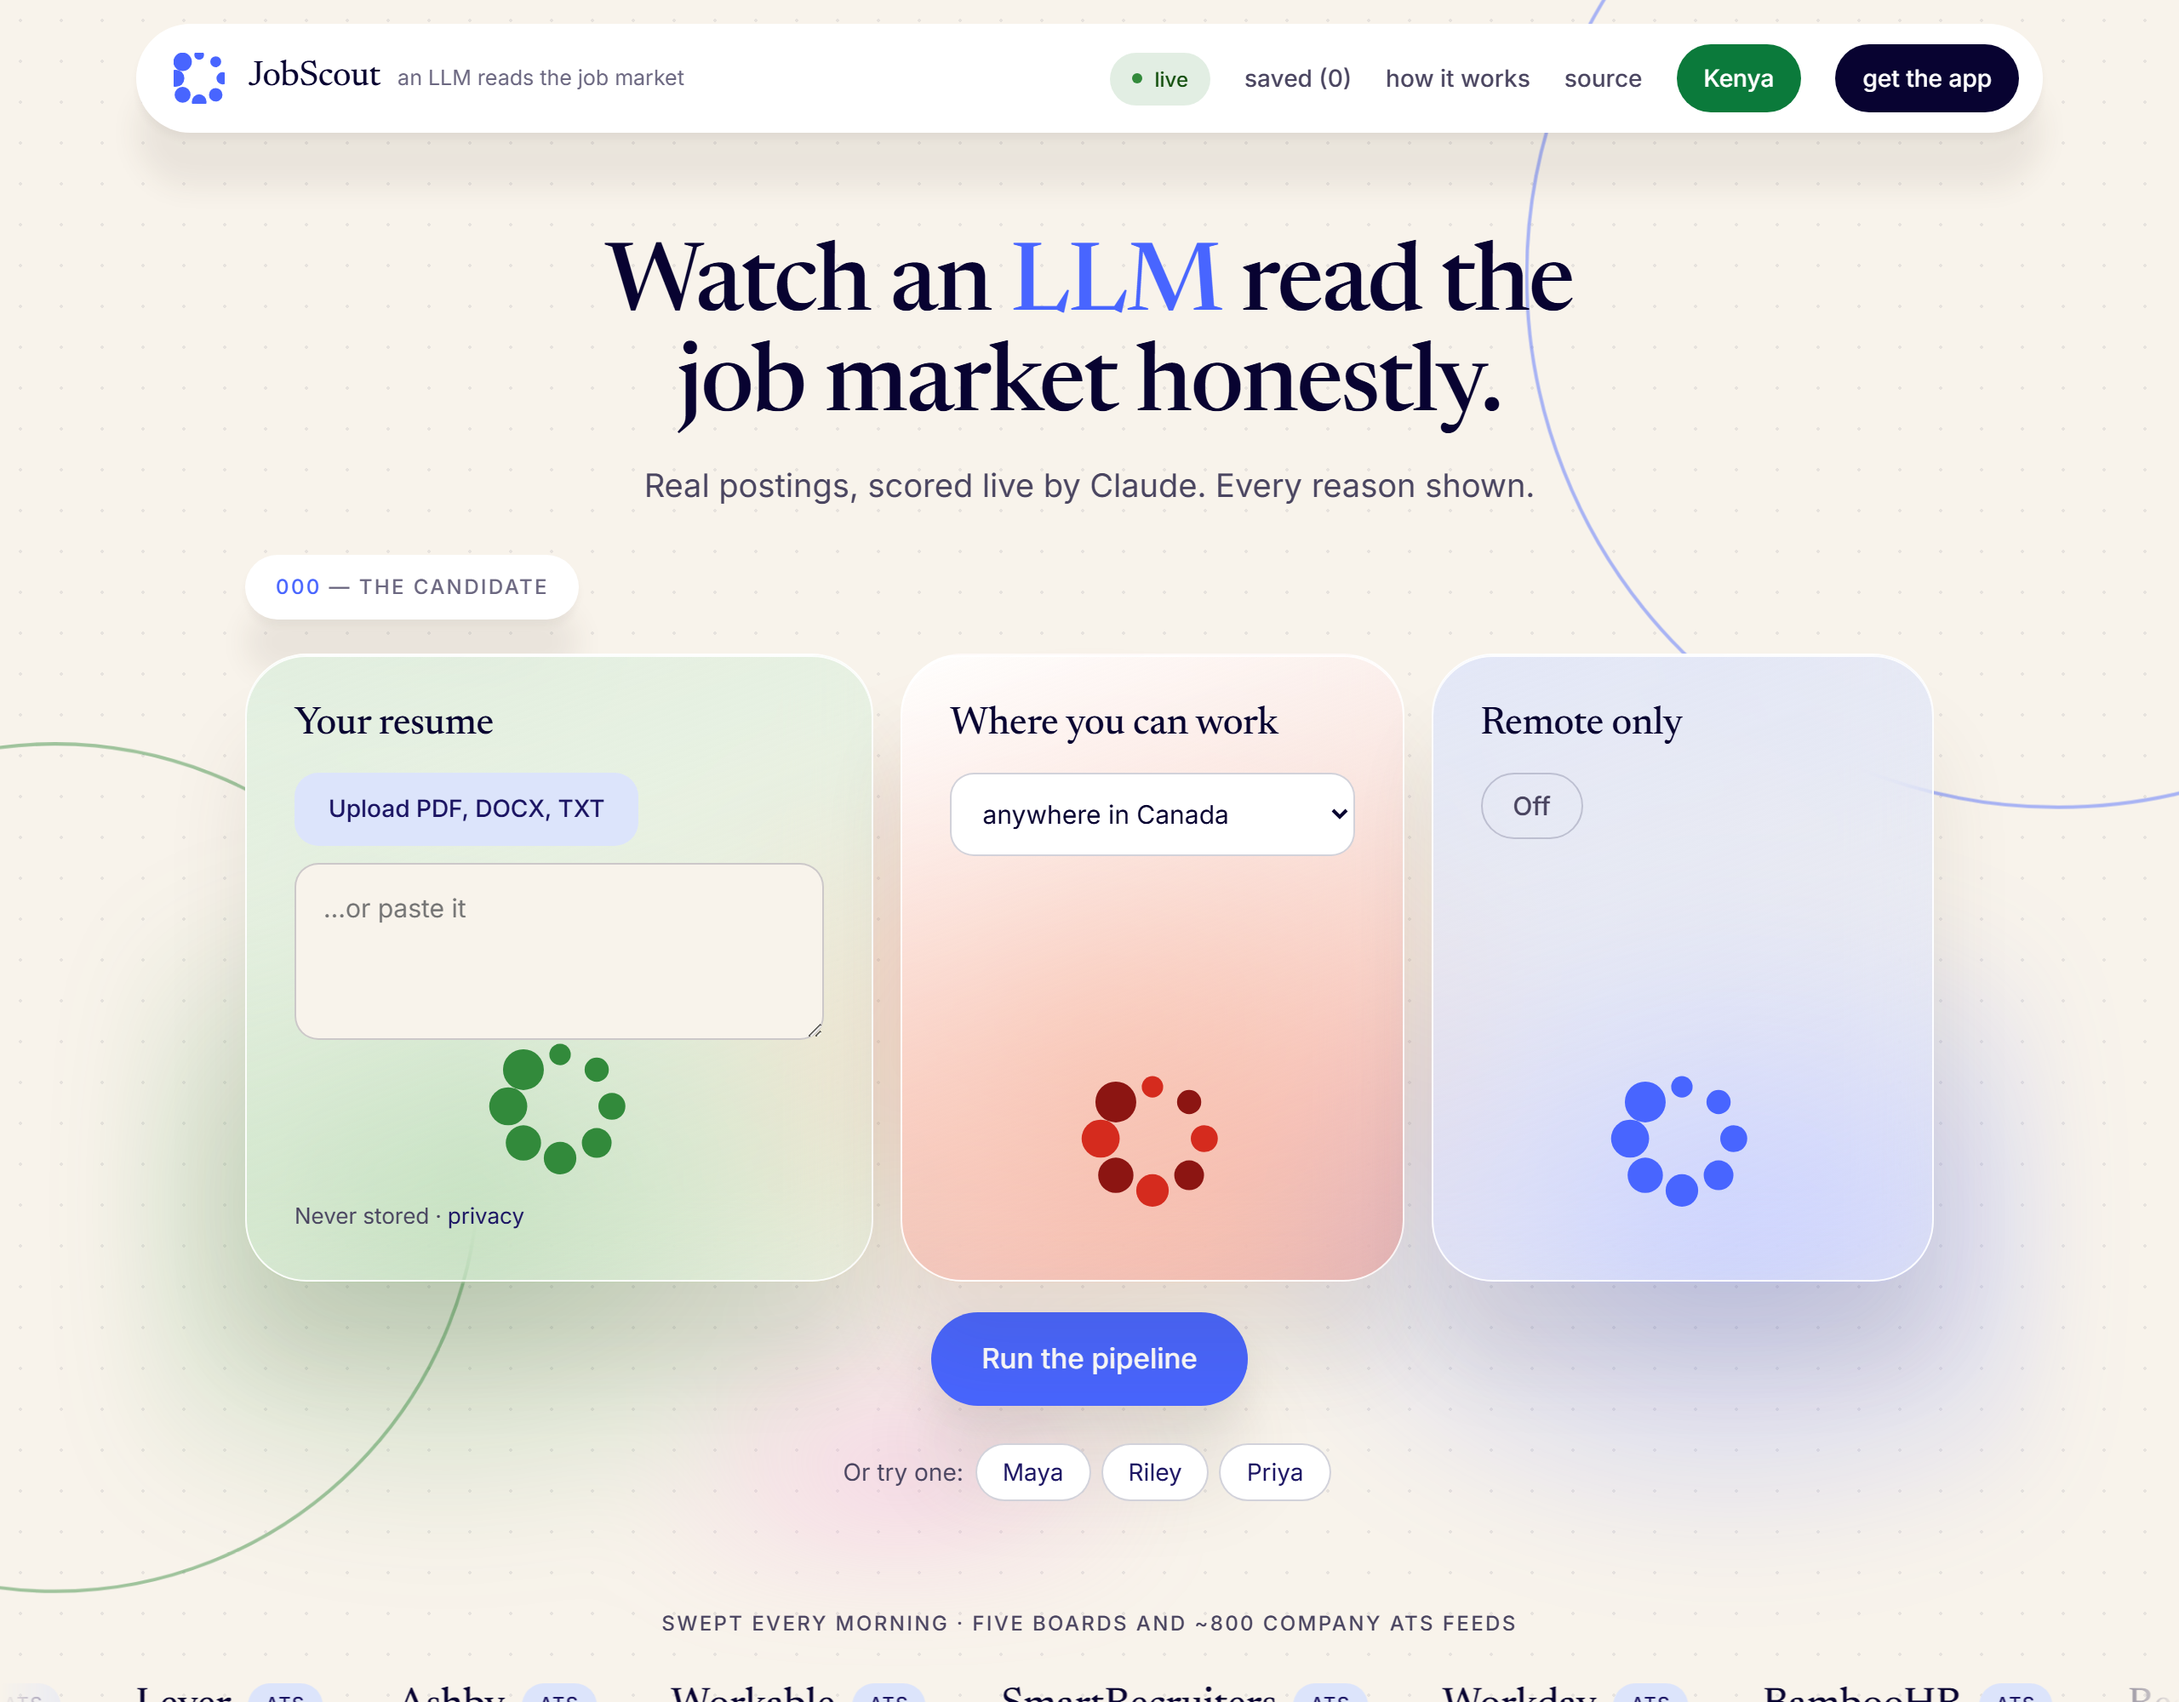
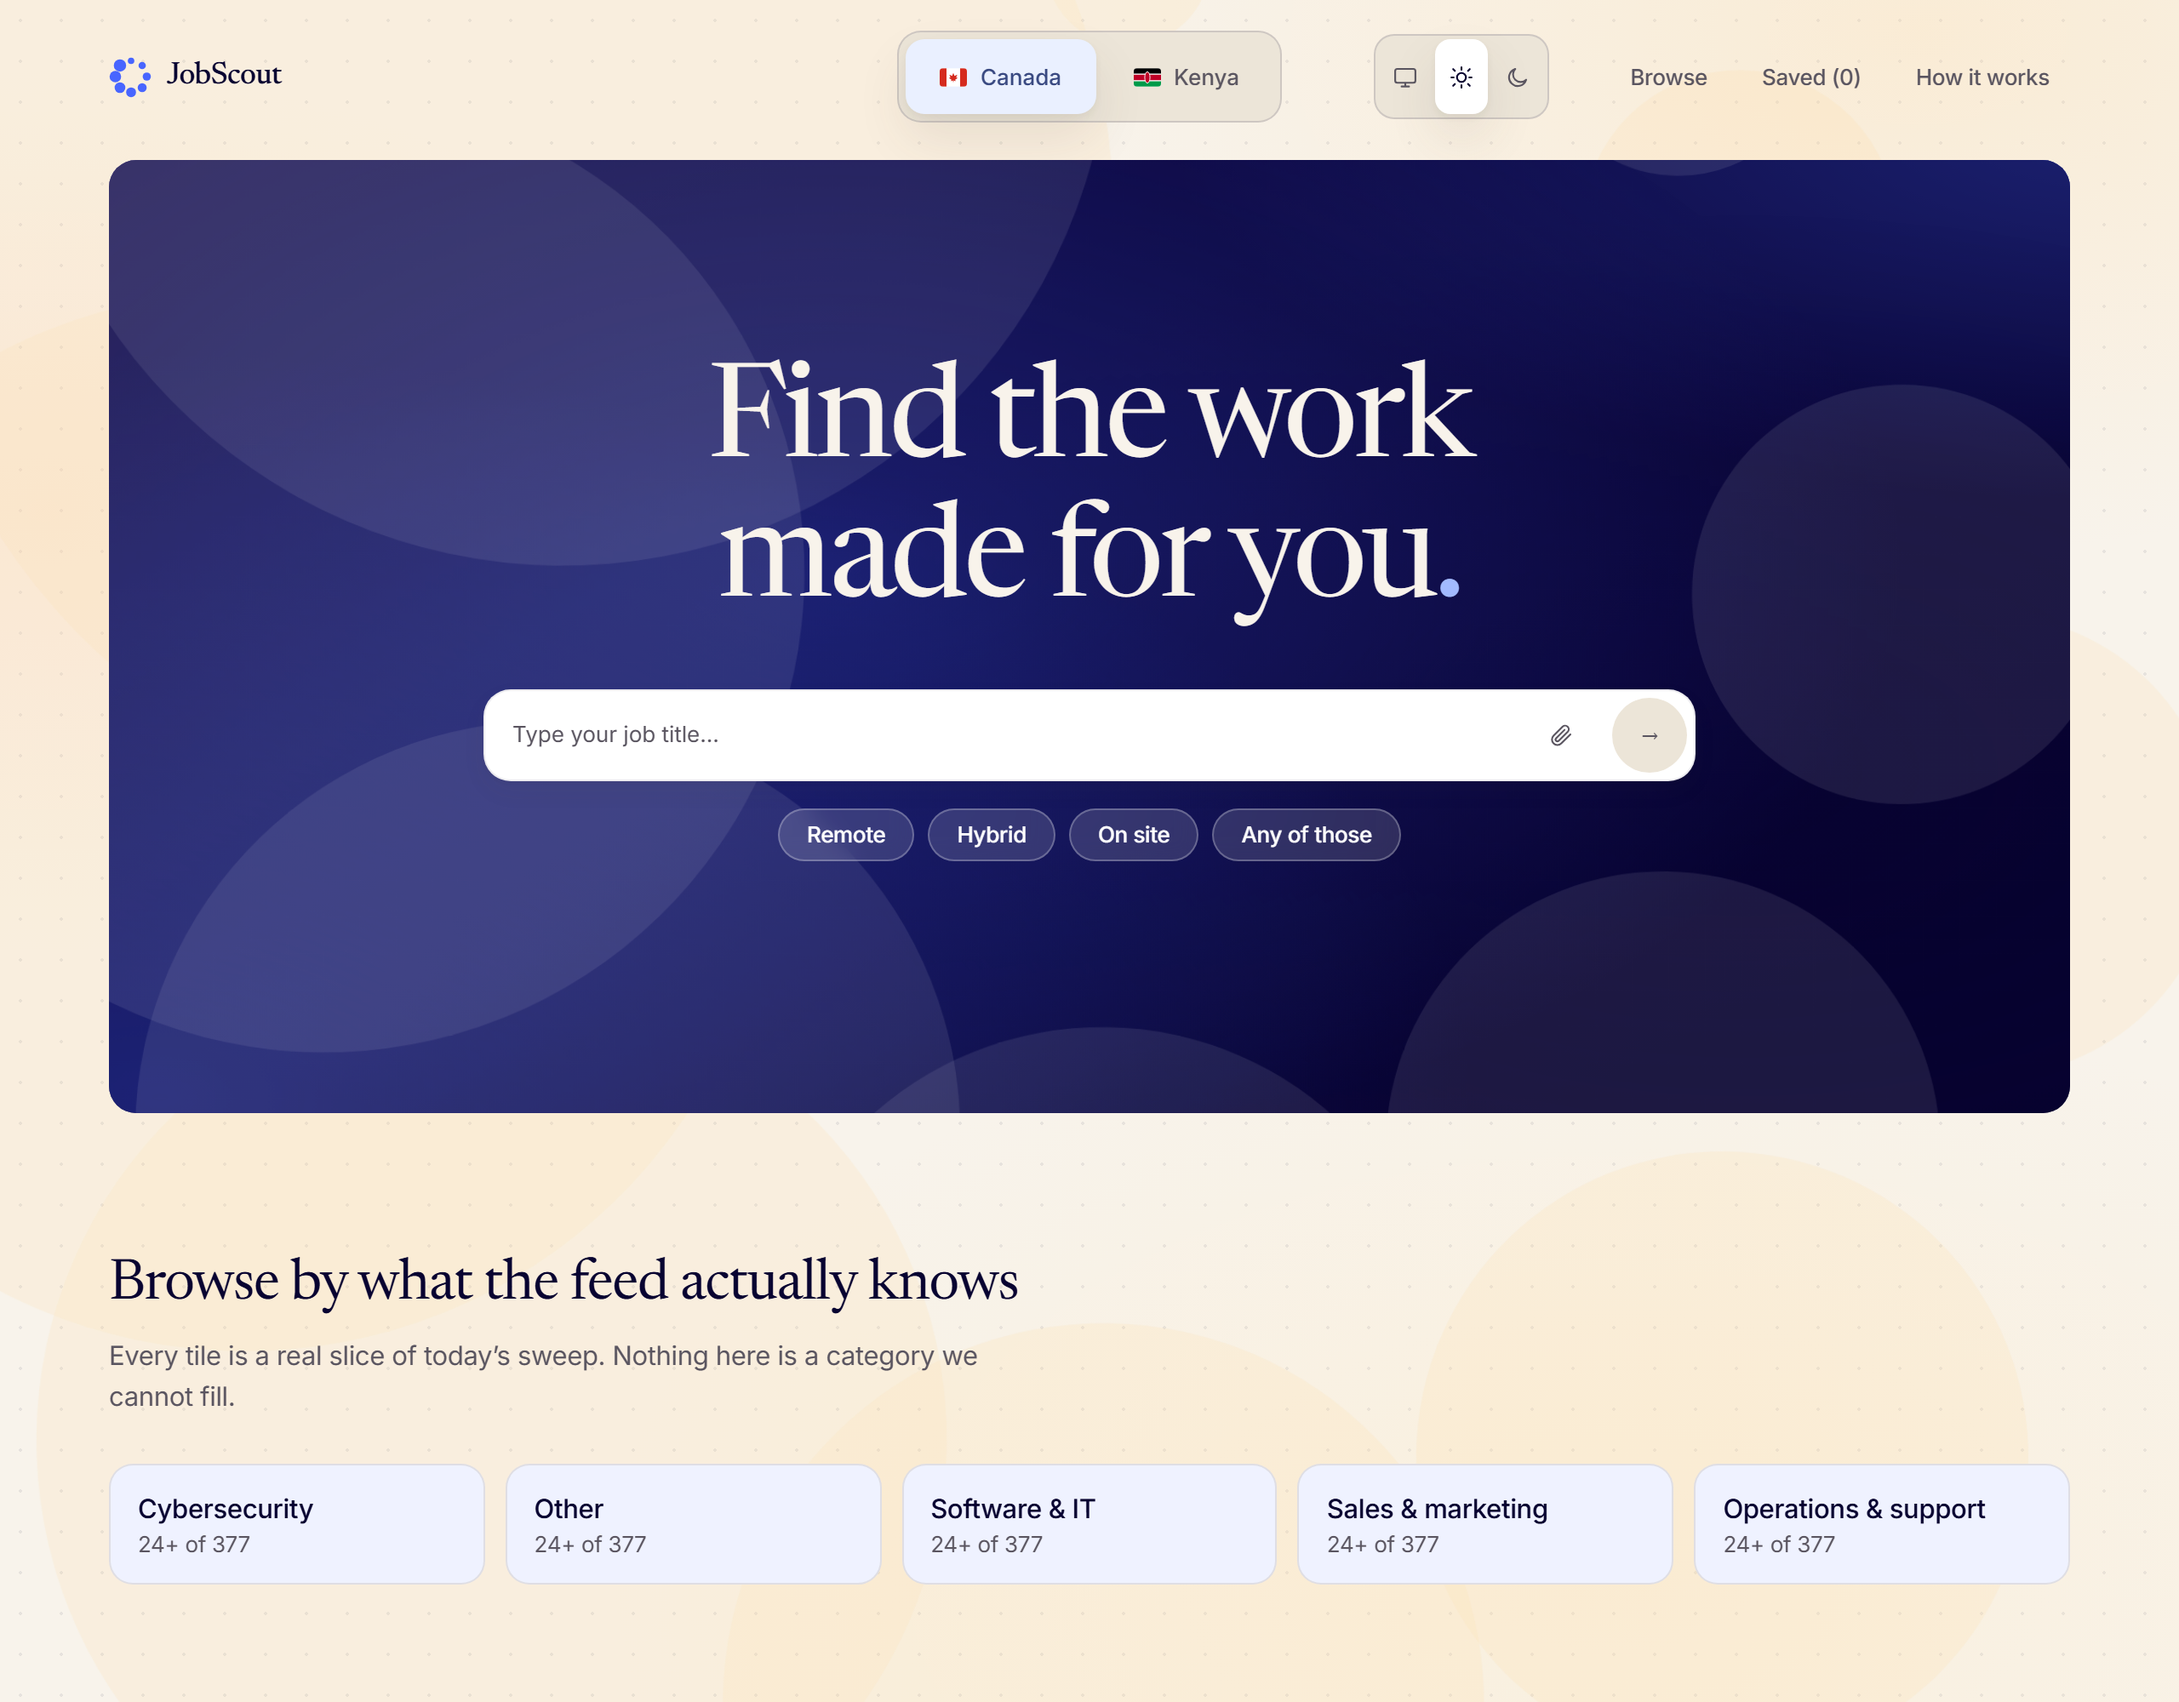
docs: fresh web screenshots of the current build (Ken 29 Oct: stale)

diff --git a/README.md b/README.md
@@ -89,7 +89,7 @@ ReliefWeb's jobs API, the UN and NGO sector Nairobi is a hub for, approved and l
 rows are marked at the source and the author's own pipeline rejects them on
 sight, so they cost it nothing. BrighterMonday and Fuzu expose no feed or API.
 
-<a href="https://jobscout.page"><img src="images/js-web.png" width="100%" alt="One page, two markets. jobscout.page: The default market. nairobi.jobscout.page: The Kenya market, with Kenyan sample candidates."></a>
+<a href="https://jobscout.page"><img src="images/js-web.png" width="100%" alt="One page, two markets. jobscout.page: The Canada market, the default. nairobi.jobscout.page: The Kenya market, with its own daily job list."></a>
 
 ## Architecture
 
